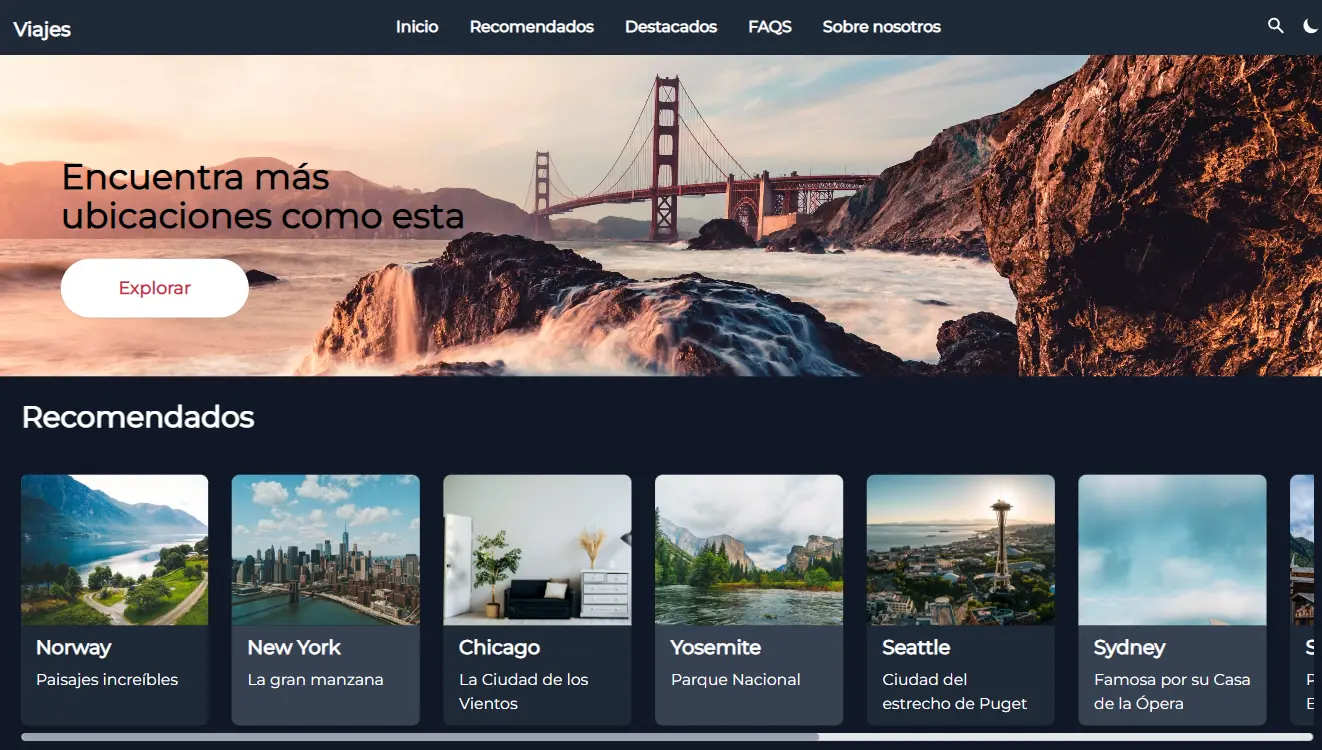
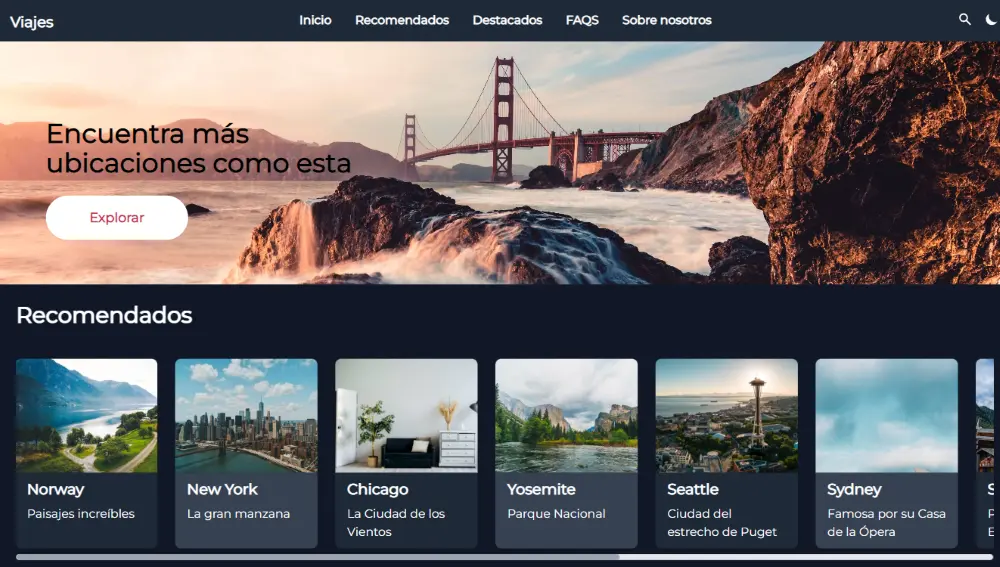
se agrega proyecto portafolio realizado

diff --git a/src/Context/index.jsx b/src/Context/index.jsx
@@ -38,6 +38,19 @@ export const GlobalProvider = (props) => {
       demo: "https://bmolina1993.github.io/todoReact/",
     },
     {
+      title: "Portafolio Web",
+      description: "Web de proyectos desarrollados",
+      vertical: false,
+      bgPreview: "bg-portafolioPreview",
+      bgImages: [
+        "bg-portafolioDesktop",
+        "bg-portafolioMobile",
+        "bg-portafolioTablet",
+      ],
+      repository: "https://github.com/bmolina1993/portafolio",
+      demo: "https://bmolina1993.github.io/portafolio/",
+    },
+    {
       title: "Datos inmobiliarios",
       description:
         "Web scraping para extraer datos de sitio y exportarlo en Json/PostgreSQL",

diff --git a/src/components/Projects.jsx b/src/components/Projects.jsx
@@ -17,7 +17,7 @@ export const Projects = () => {
       {/* Cards */}
       <section className={"flex w-full justify-center px-5"}>
         <section
-          className={`flex h-96 w-full max-w-xl flex-col flex-wrap items-center overflow-hidden md:h-120 md:max-w-3xl ${scrollStyle}`}
+          className={`flex h-96 w-full max-w-xl flex-col flex-wrap items-center overflow-hidden md:h-120 md:max-w-3xl lg:max-w-5xl ${scrollStyle}`}
         >
           {dataProjects.map((data, index) => (
             <Card key={index} data={data} />

diff --git a/src/components/Card.jsx b/src/components/Card.jsx
@@ -12,7 +12,7 @@ export const Card = (props) => {
   const { onClickShowModal, onClickDetailProject } = useContext(GlobalContext);
 
   return (
-    <section className="h-48 w-2/4 min-w-72 cursor-pointer p-2.5 md:h-60">
+    <section className="h-48 w-2/4 min-w-72 cursor-pointer p-2.5 md:h-60 lg:w-2/6">
       {/* Background image */}
       <div
         onClick={() => {
